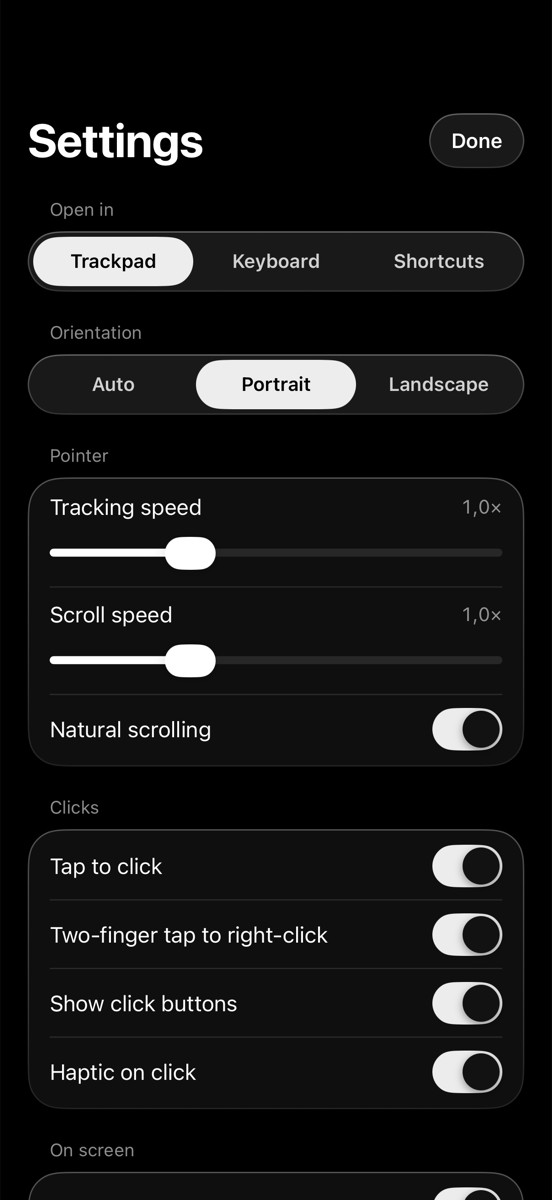
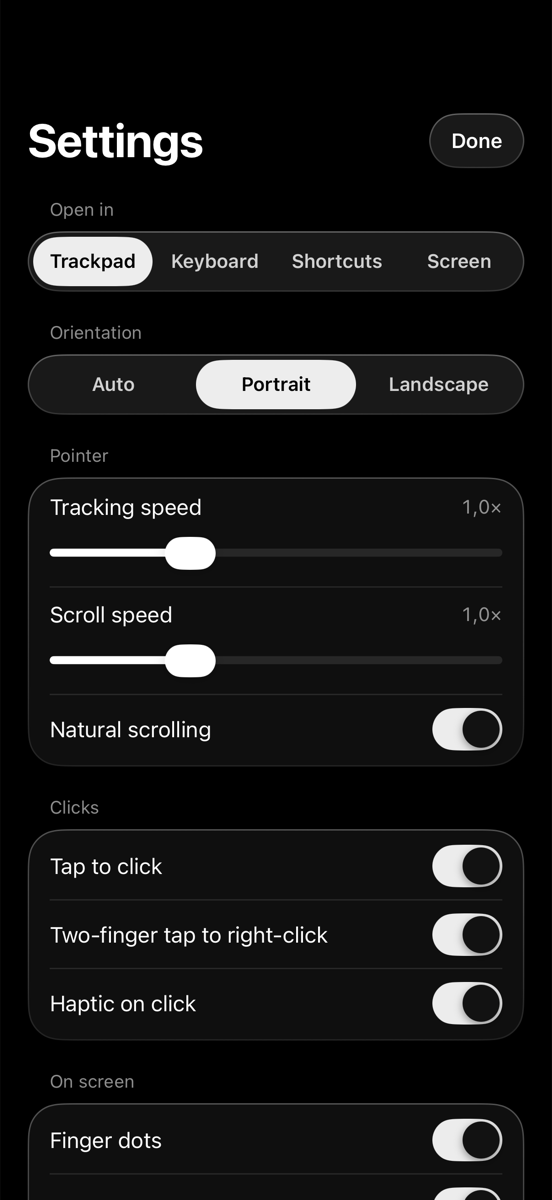
Refresh README screenshots and round the screen picture's corners
New Screen tab shots (display grid and one display), retaken Trackpad,
Keyboard, Shortcuts and Settings shots to match the current app. The
Mac screens shown are made-up desktops, not a real Mac's contents.

diff --git a/DigitalControler/ScreenView.swift b/DigitalControler/ScreenView.swift
@@ -45,6 +45,9 @@ struct ScreenSurfaceView: UIViewRepresentable {
             super.init(frame: frame)
             clipsToBounds = true
             isMultipleTouchEnabled = true
+            imageView.layer.cornerRadius = 12
+            imageView.layer.cornerCurve = .continuous
+            imageView.clipsToBounds = true
             addSubview(imageView)
 
             let tap = UITapGestureRecognizer(target: self, action: #selector(tapped))

diff --git a/README.md b/README.md
@@ -7,7 +7,7 @@ Mission Control, type on a Mac keyboard, fire common shortcuts, or see your Mac'
 all from your phone.
 
 <p align="center">
-  <img src="docs/screenshots/trackpad.png" alt="Trackpad screen: the Mac's name and latency, mode switcher, a large touch surface, Left and Right click buttons, and a scroll strip" width="820">
+  <img src="docs/screenshots/trackpad.png" alt="Trackpad screen: the Mac's name and latency, mode switcher, a large touch surface, and a scroll strip" width="820">
 </p>
 
 ## How it works
@@ -64,9 +64,13 @@ The app reconnects to your last Mac automatically.
 
 ## Screenshots
 
+| Screen: all displays | Screen: one display |
+|---|---|
+| <img src="docs/screenshots/screen-grid.png" alt="Screen tab showing thumbnails of three Mac displays" width="400"> | <img src="docs/screenshots/screen.png" alt="Screen tab showing one Mac display large, with an All screens button and gesture hints" width="400"> |
+
 | Keyboard | Shortcuts |
 |---|---|
-| <img src="docs/screenshots/keyboard.png" alt="Full Mac keyboard layout with sticky modifier keys" width="400"> | <img src="docs/screenshots/shortcuts.png" alt="Type to Mac field, nine shortcut buttons, and a mini trackpad" width="400"> |
+| <img src="docs/screenshots/keyboard.png" alt="Mac keyboard layout with sticky modifier keys" width="400"> | <img src="docs/screenshots/shortcuts.png" alt="Type to Mac field, nine shortcut buttons, and a mini trackpad" width="400"> |
 
 | Connect | Settings | Gestures |
 |---|---|---|
@@ -116,6 +120,7 @@ DigitalControler/                 iPhone app
   TouchpadView.swift              Multi-touch surface: pointer, taps, scroll, drag, pinch, 3-finger swipes
   RemoteView.swift                Connected screen: Trackpad, Shortcuts and Screen modes, scroll strip
   KeyboardView.swift              Mac keyboard layout
+  ScreenView.swift                The Mac's screen as a touch surface: click, drag, scroll, zoom
   ConnectView.swift               Find and pair with a Mac
   SettingsView.swift, Prefs.swift Settings screen and stored preferences
   Theme.swift                     Monochrome glass styling
@@ -128,6 +133,7 @@ DigitalControlerMac/              Mac menu bar helper
 
 ## Known limitations
 
+- **The Screen tab is snapshots for now.** Up to 5 frames per second as JPEG; H.264 video streaming is planned.
 - **Pinch and three-finger gestures are approximations.** They send keyboard shortcuts, because real trackpad
   gesture events need private macOS APIs.
 - **Keys don't auto-repeat when held.**
